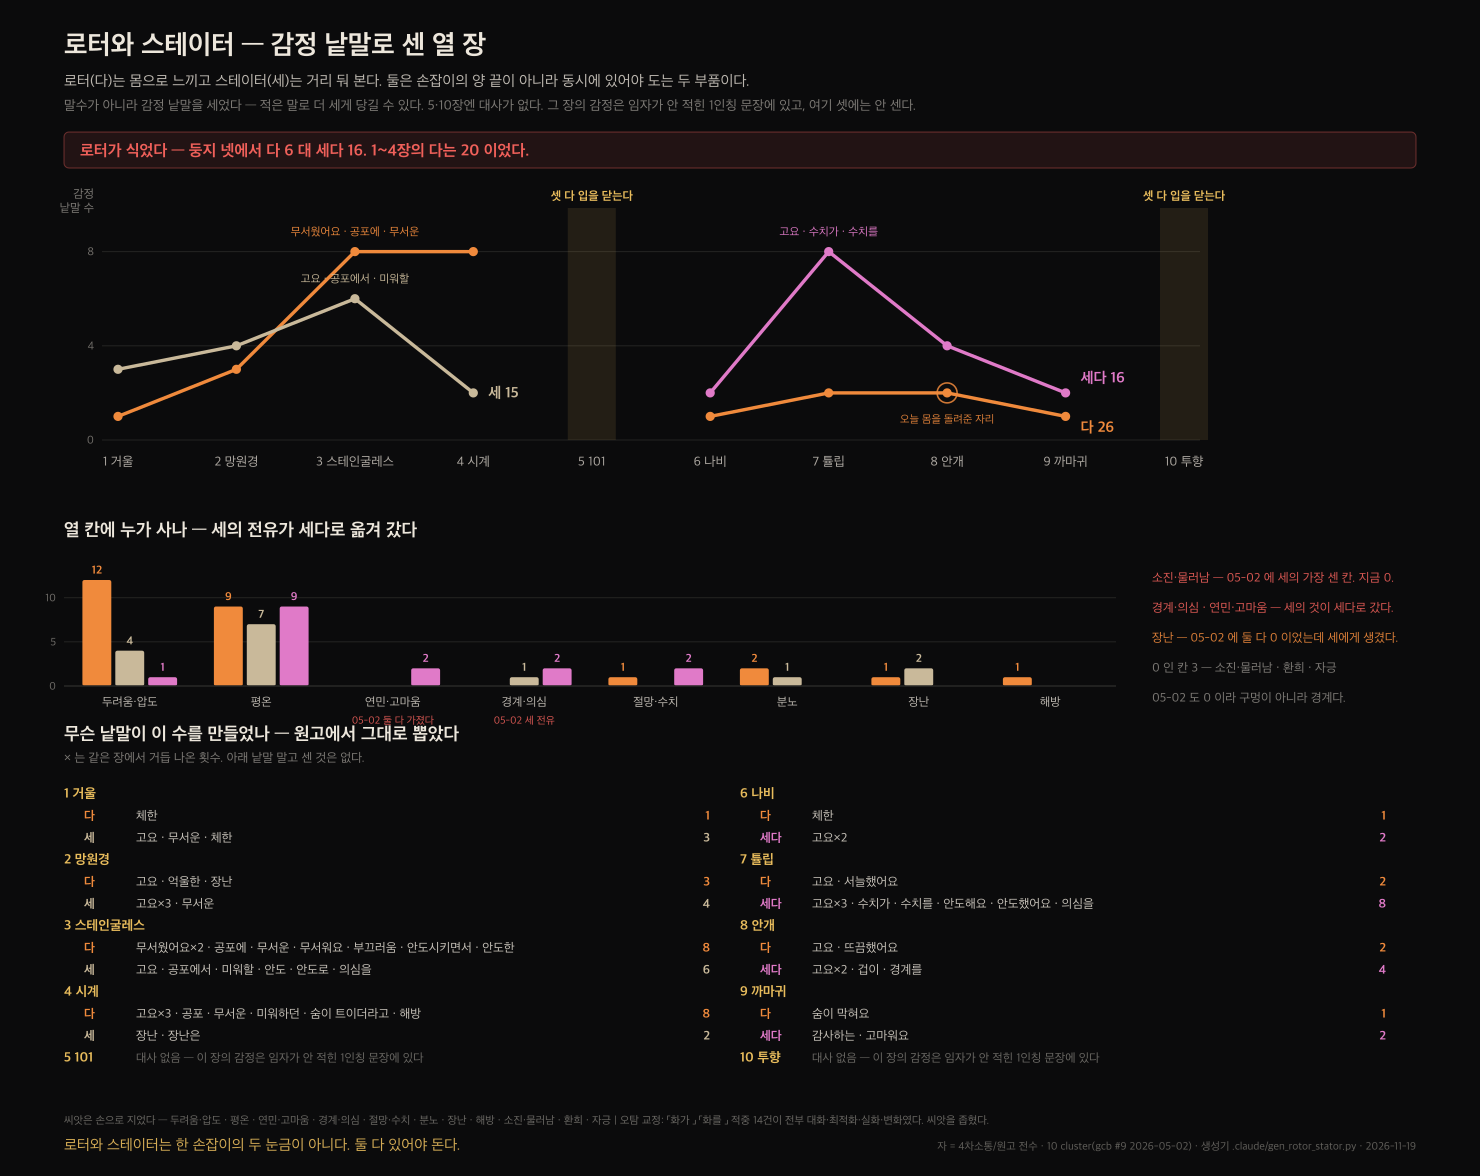
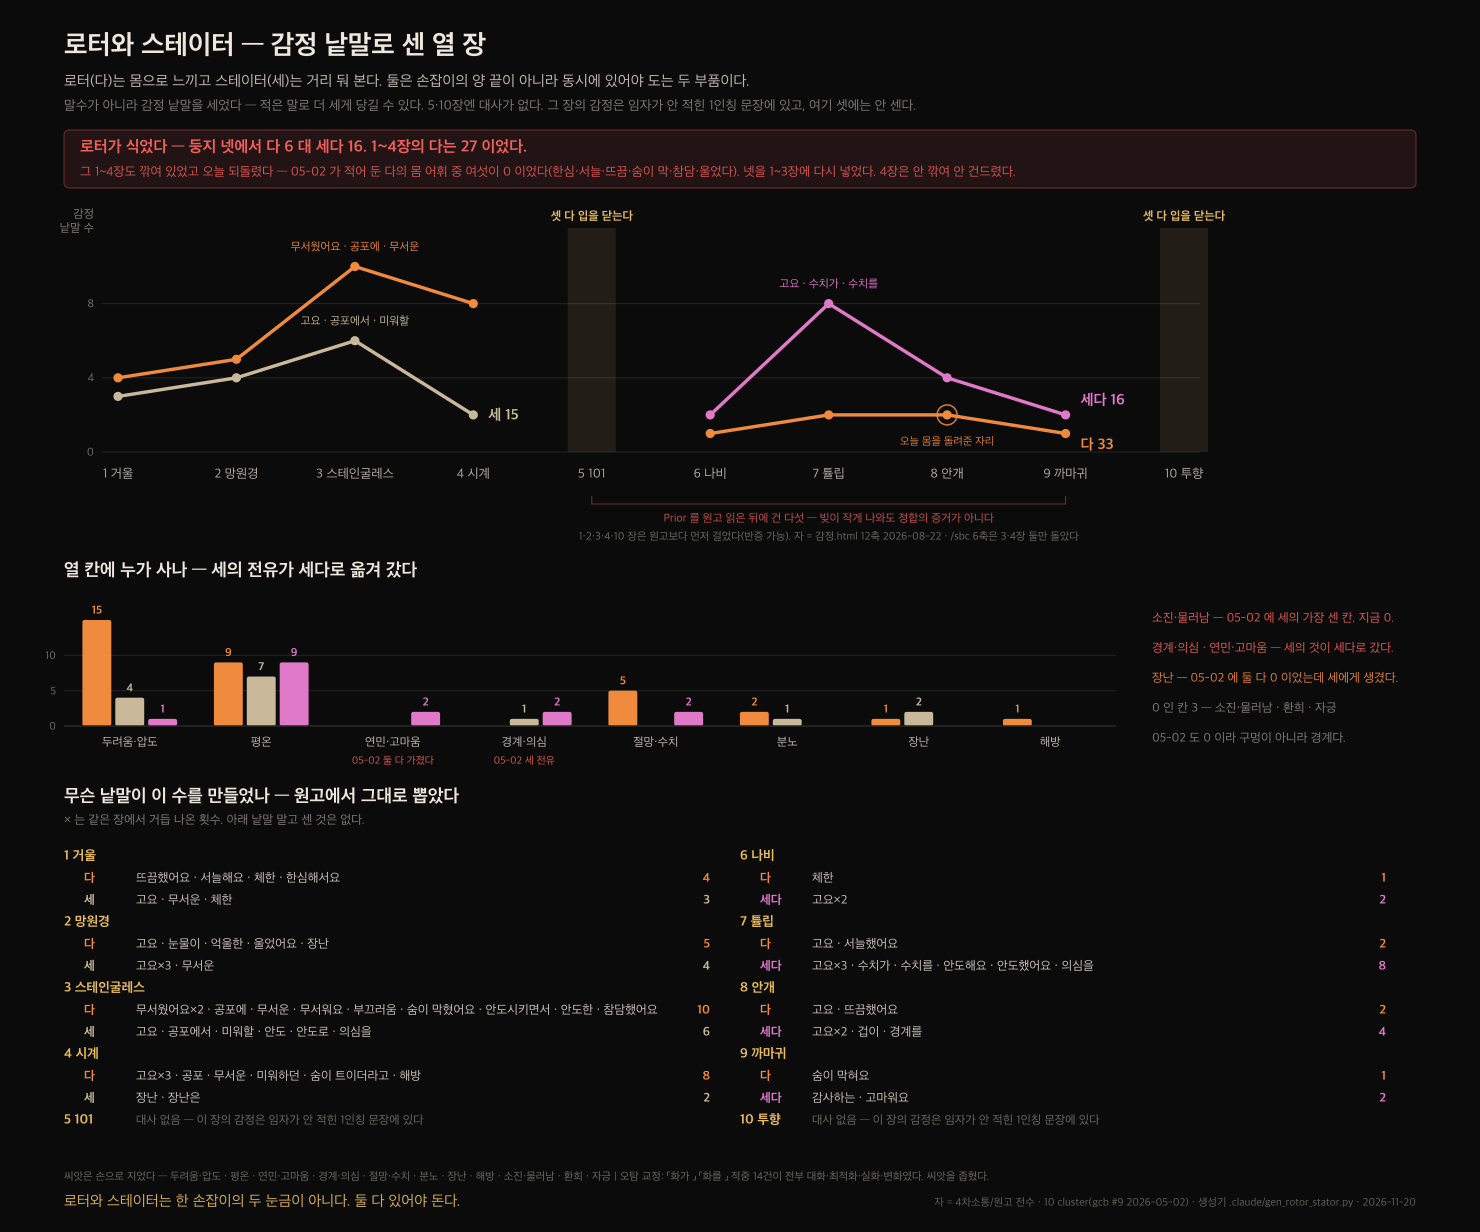
edit: README 셋째 물음을 짝 전체가 덮는 말로 — 돈이 아니라 확신
「돈을 받아도 내 것으로 남나」는 3↔8 짝의 반쪽만 가리켰다.
실측 — 3장 돈·자금·투자 4건 대 8장 37건, 확신은 3장 32 · 8장 13.
돈은 8장만의 말이고 확신이 짝 전체를 관통한다. 다섯 중 이 칸만
「이런 말이 나올 때」가 비어 있던 것이 그 증상이었다.

→ 「내 확신을 되물어 줄 사람이 있나」. /reader 7:1 → 8:0.
값진 반대(오세진 💰) = 「표에서 돈이 사라지면 투자자가 읽을 칸이 없다」
→ 「읽을 장」 칸이 이미 8 안개를 가리켜 입구를 지킨다.

빈 칸은 그대로 둔다. 「아직 못 들어서 비워 뒀습니다」는 실측이고,
원고 대사로 채우면 못 들은 말을 들은 척하는 것이다.

그림은 생성물이다 — .claude/gen_rotor_stator.py 가 원고에서 다시 그린다.
오늘 들어간 것: /sbc 꺾쇠를 5~9장으로 옮김 · 1~4장 다의 몸 복원 · 날짜.

diff --git a/README.md b/README.md
@@ -15,7 +15,7 @@
 |:--:|:--|:--|:--|
 | **1** | 이 원함이 내 것인가, 빌린 것인가 | *"저도 이게 필요해서 만들었어요"* | [1 거울 → 6 나비](https://hyunjimoon.github.io/golden-cage-book/interactive/reader.html?file=ch1_mirror_cage) |
 | **2** | 다 알겠는데 왜 시작을 못 하나 | *"우리 시장은 원래…"* | [2 망원경 → 7 튤립구근](https://hyunjimoon.github.io/golden-cage-book/interactive/reader.html?file=ch2_telescope_cage) |
-| **3** | 돈을 받아도 내 것으로 남나 | **—** | [3 스테인굴레스 → 8 안개](https://hyunjimoon.github.io/golden-cage-book/interactive/reader.html?file=ch3_glass_cage) |
+| **3** | 내 확신을 되물어 줄 사람이 있나 | **—** | [3 스테인굴레스 → 8 안개](https://hyunjimoon.github.io/golden-cage-book/interactive/reader.html?file=ch3_glass_cage) |
 | **4** | 누구의 자로, 누구와 재나 | *"제 대시보드는 초록인데요"* | [4 시계 → 9 까마귀](https://hyunjimoon.github.io/golden-cage-book/interactive/reader.html?file=ch4_clock_cage) |
 | **5** | 멈춰서 잃은 시간이 갚아지나 | *"제가 그렇게 말해버렸으니 어떻게든 해야죠"* | [5 101호 → 10 101호](https://hyunjimoon.github.io/golden-cage-book/interactive/reader.html?file=ch5_mirror_nest) |
 
